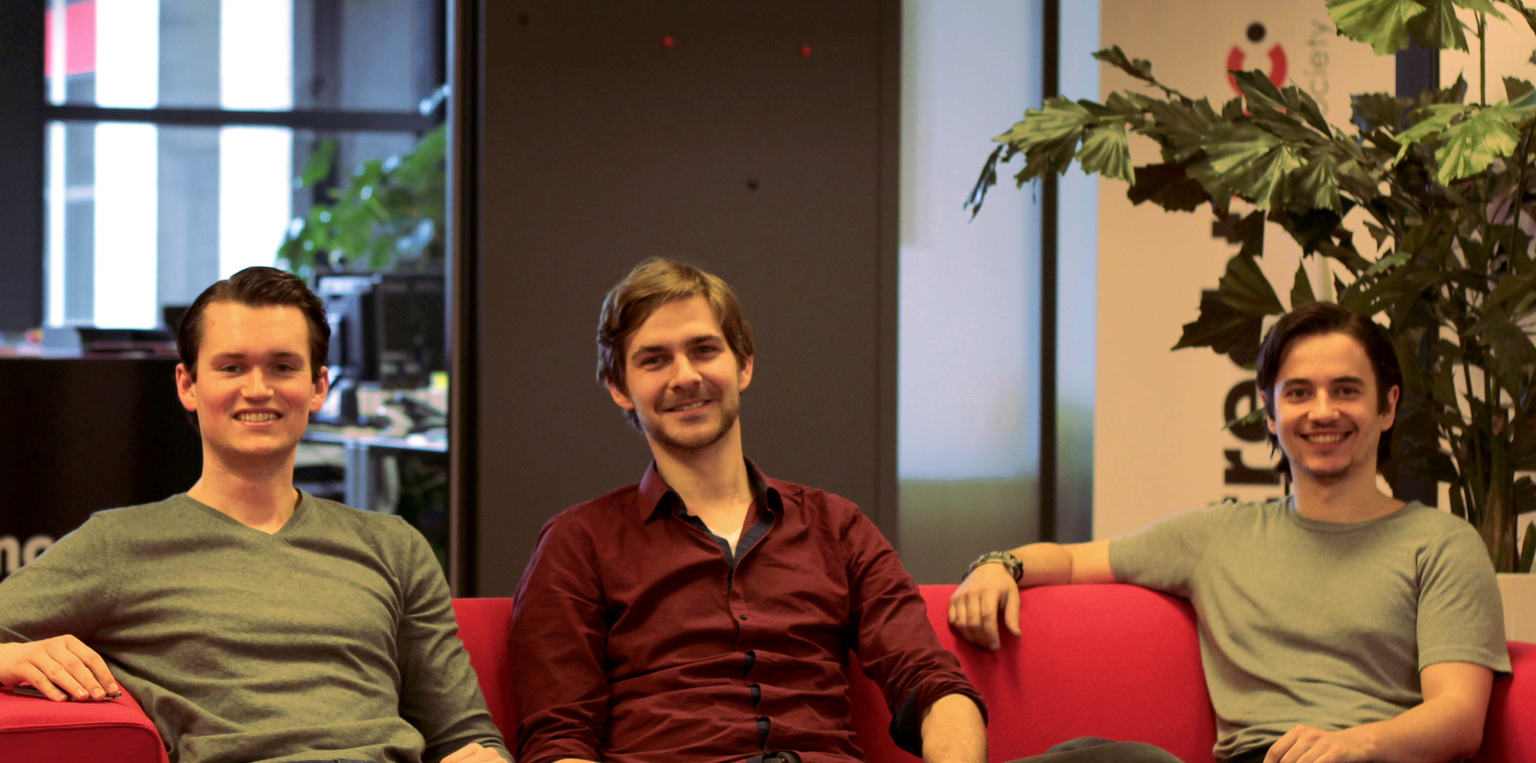
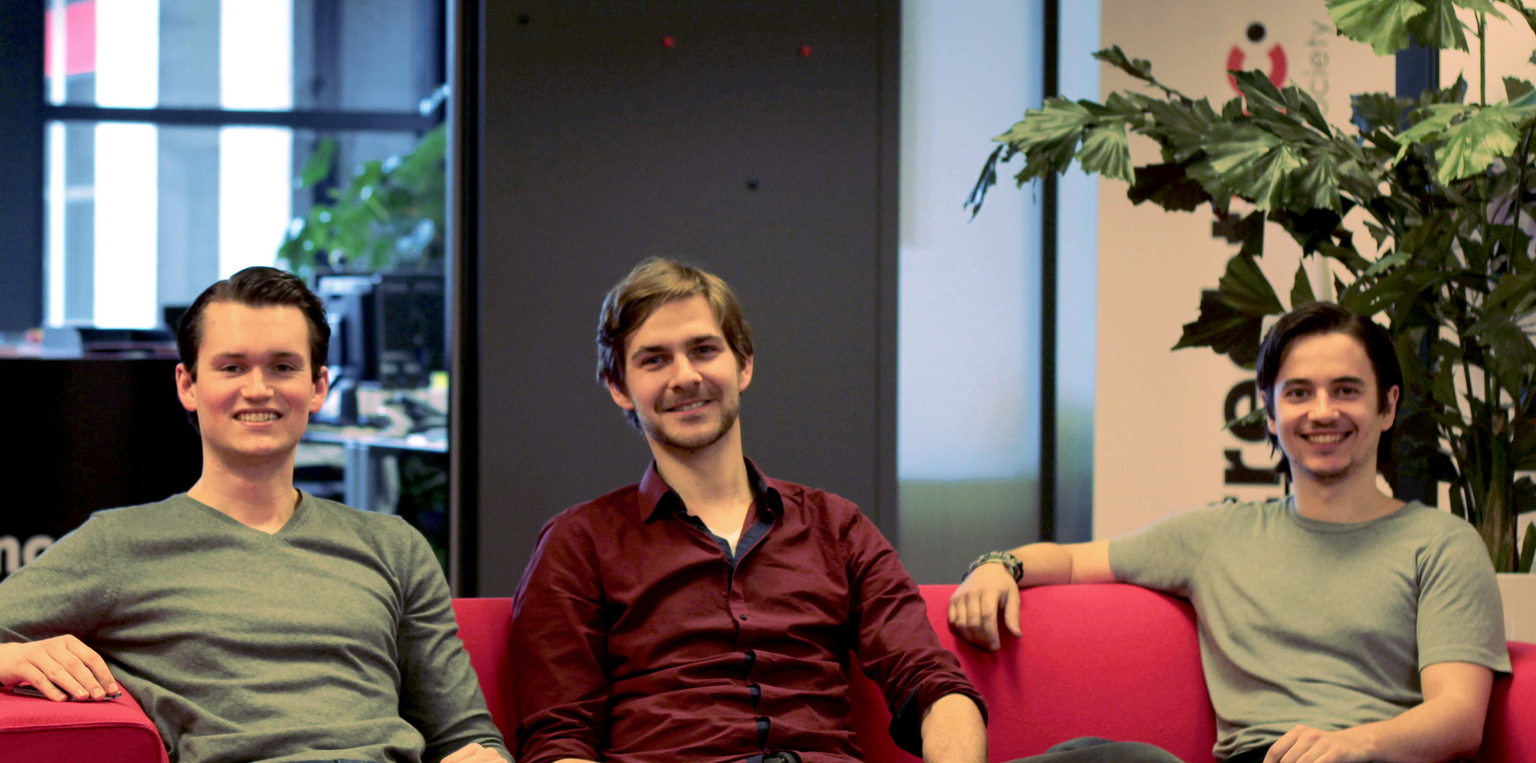
[IMP] Team photo colours, responsive context buttons

diff --git a/app/assets/stylesheets/briarcliff/_context.scss b/app/assets/stylesheets/briarcliff/_context.scss
@@ -13,6 +13,14 @@
   h3{
     font-size: 1em !important;
   }
+  @include bp-large-2 {
+    position: relative;
+    width: 45%;
+    width: calc( 50% - 1em);
+    left: auto !important;
+    right: auto !important;
+    display: inline-block;
+  }
 }
 
 .context--next {

diff --git a/app/assets/stylesheets/briarcliff/_cover.scss b/app/assets/stylesheets/briarcliff/_cover.scss
@@ -71,12 +71,6 @@
   height: auto;
   min-height: 3em;
   @include box-shadow;
-  .btns-list li .dropdown-trigger {
-    padding: 1em;
-    @include bp-medium{
-      padding: .5em;
-    }
-  }
   h1 {
     font-size: 1.4em;
     position: relative;

diff --git a/app/assets/stylesheets/_mixins.scss b/app/assets/stylesheets/_mixins.scss
@@ -91,6 +91,12 @@
 }
 
 // Responsive
+@mixin bp-large-2 {
+  @media only screen and (max-width: 100em) {
+    @content;
+  }
+}
+
 @mixin bp-large {
   @media only screen and (max-width: 70em) {
     @content;
